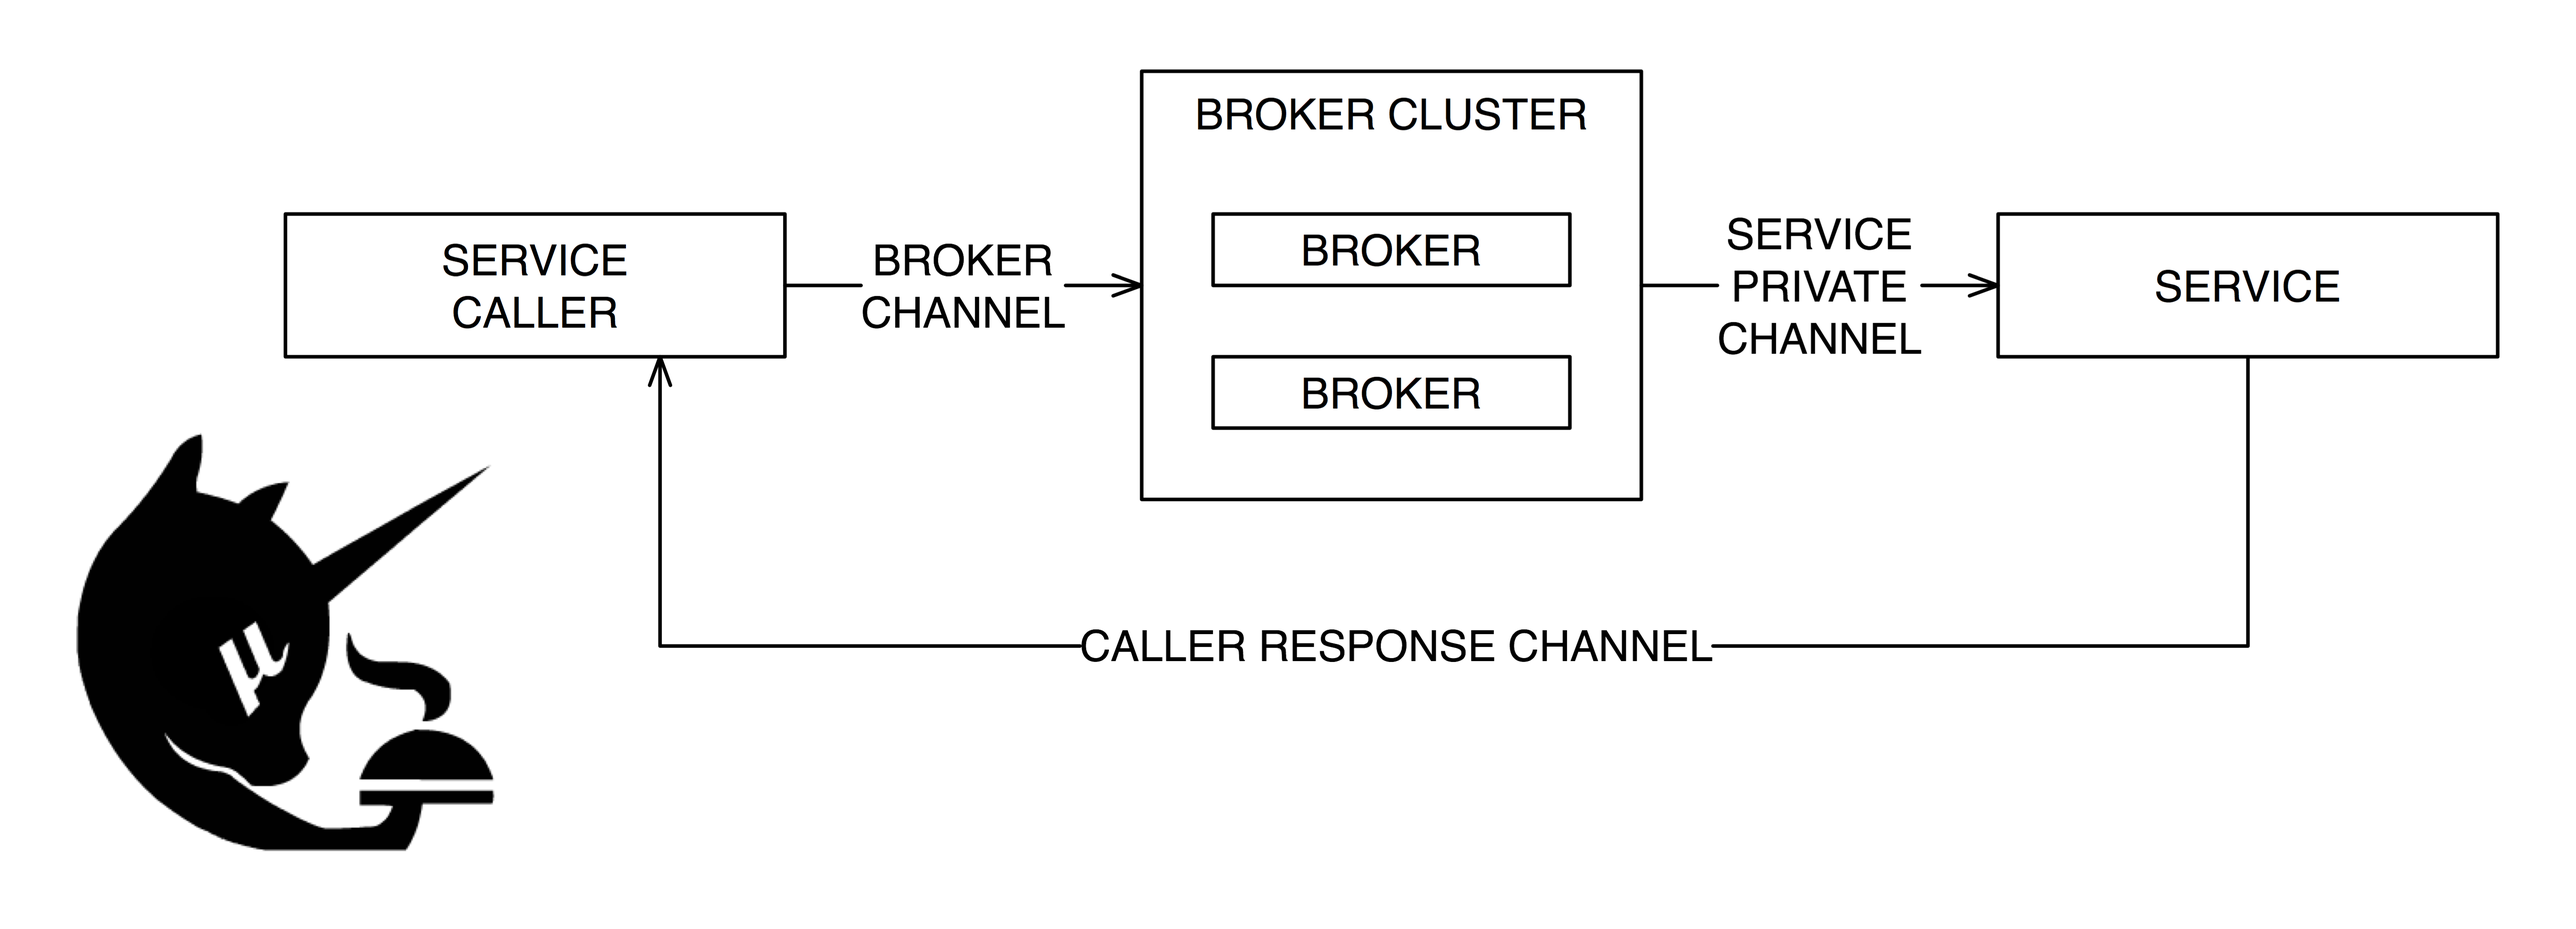
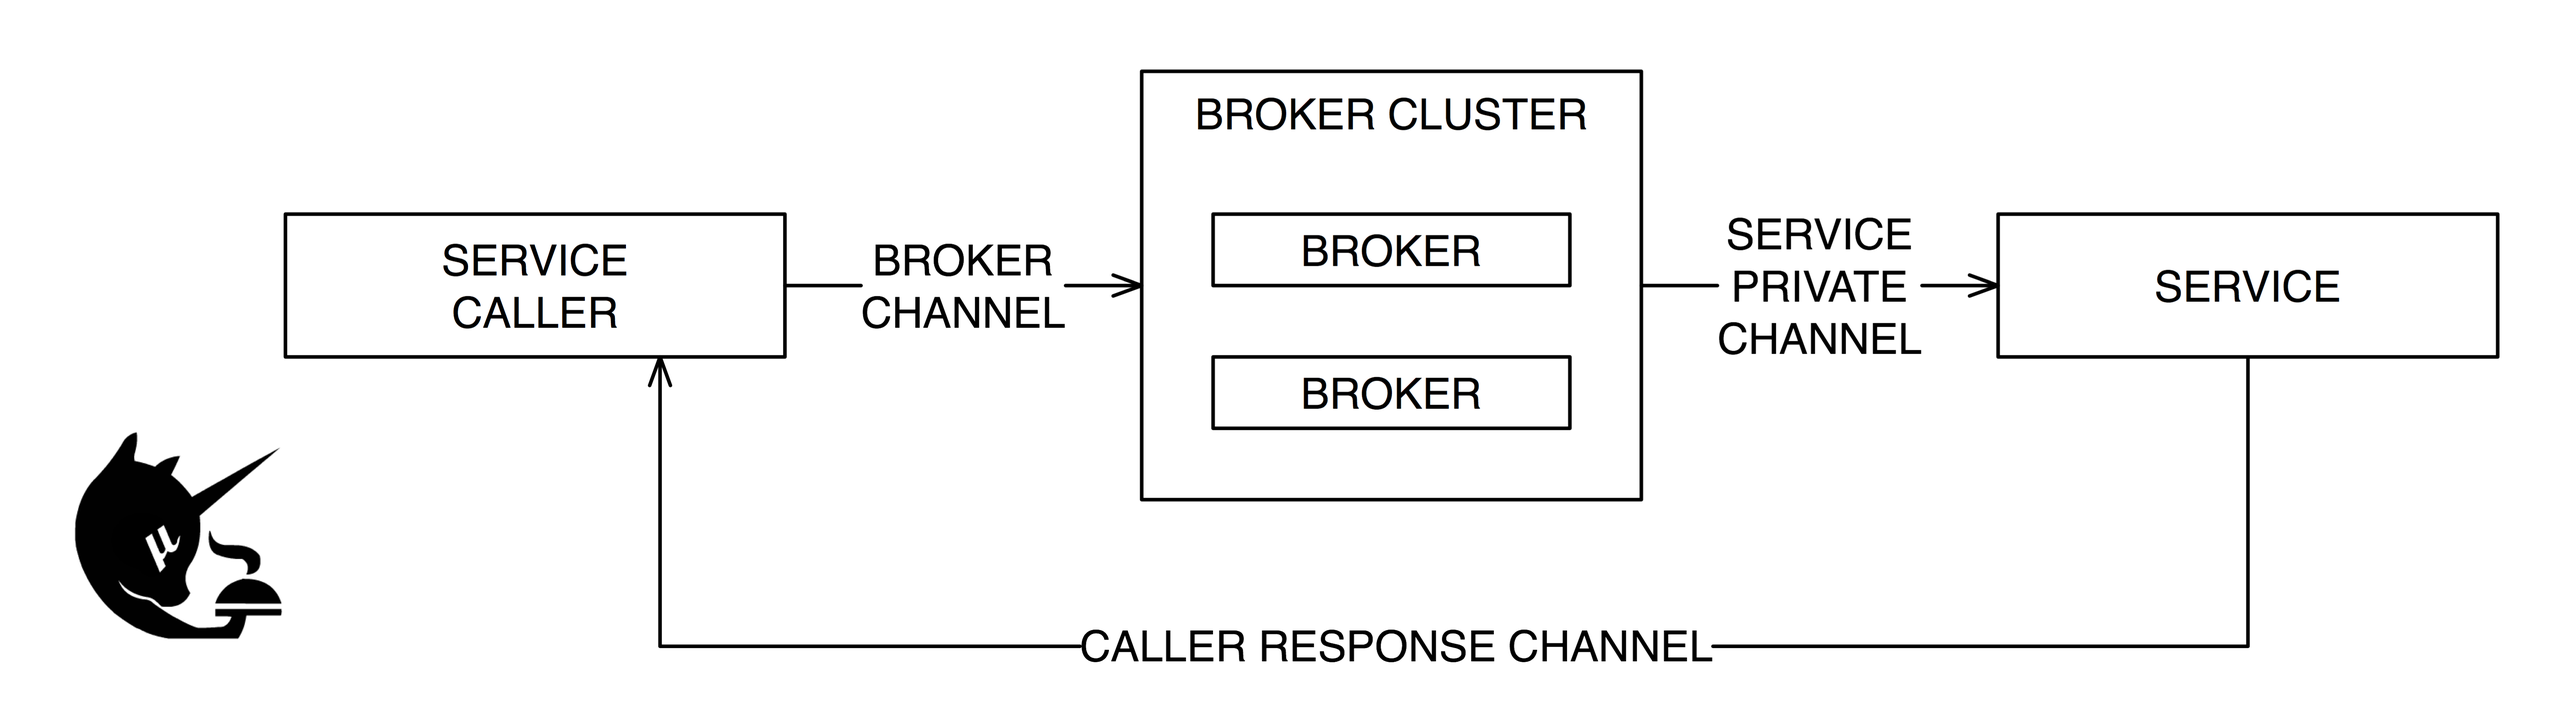
Added title-bar

diff --git a/README.md b/README.md
@@ -1,4 +1,4 @@
-# unicornjs
+#![unicorn basics](/images/title-bar.png)
 ##Lure the unicorn out of the bush
 * The unicorn micro-service infrastructure is a distributed way of delivering data and services redundant, reliable and multi-threaded.
 * Unicorn reduces the pain of micro-services and keeps the focus on the logic you need in your project.
